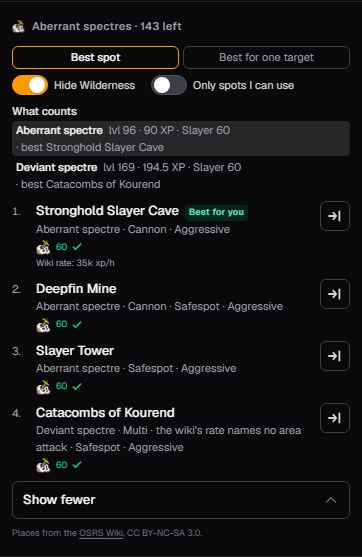
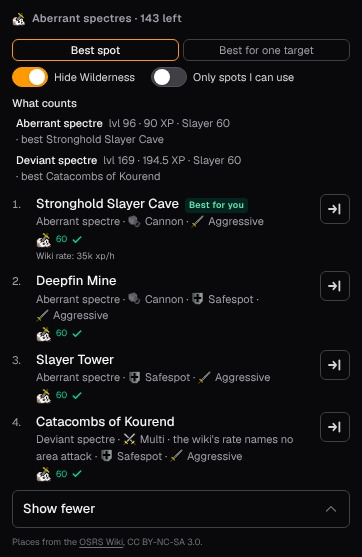
Show the website's Slayer panel as it is now on the Hub page
The website now puts the same pictures before a Slayer place's labels that the sidebar draws,
keeping the words, so the Hub page's picture of that panel showed labels the site no longer
draws that way. It is captured again from the map's own Slayer scene, the same task and the same
crop, and the evidence note records the scene, the crop and that nothing left for production.

Claude-Session: https://claude.ai/code/session_012PeGNqxYJ3rWSeWDbWxWYV

diff --git a/docs/review-evidence/tasks-cards-2026-11-11.md b/docs/review-evidence/tasks-cards-2026-11-11.md
@@ -54,3 +54,17 @@ level it asks for joined the chips' row; the sizes above are theirs.
 736px in both themes, with no horizontal overflow and every internal link resolved. Its HTML came
 from a local conversion of the README's Markdown (Python-Markdown 3.11) rather than GitHub's
 renderer, so the check made no request.
+
+## The website's Slayer panel, 12 November 2026
+
+`website-slayer.jpg` is captured again: the website now puts the same pictures before a place's
+labels, with the words kept (`osrs-stars-map` at `21dc459`, *Put the game's pictures before a
+Slayer place's labels*). It is that repository's `map-companion-slayer` scene from
+`scripts/shoot-map.mjs`, desktop and dark, run from a copy with the posted task changed from
+Abyssal demons to Aberrant spectres so the picture shows the task it always has. The 1440×900
+shot is cropped to the Slayer block, x 57–419 and y 155–712, the 362×557 of the picture it
+replaces.
+
+The page was the map's own, served by `next dev` with its fixture star feed, the local tile
+mirror, fake sign-in and a temporary companion database; the member and group are the scene's
+synthetic ones. No request left for production, and it is not evidence of what is deployed.

diff --git a/README.md b/README.md
@@ -133,7 +133,7 @@ Any place on the map has its fastest ways there, teleports and rides included, d
 pins. **Send to RuneLite** puts the route in your sidebar.
 
 <p>
-  <img src="docs/mockups/website-slayer.jpg" width="270" alt="The website's Slayer panel for 143 Aberrant spectres: ranked places, monster variants, access requirements and controls for the list">
+  <img src="docs/mockups/website-slayer.jpg" width="270" alt="The website's Slayer panel for 143 Aberrant spectres: ranked places with a picture beside each label, monster variants, access requirements and controls for the list">
   <img src="docs/mockups/website-sailing.jpg" width="270" alt="Port Sarim's task board on the website: courier tasks ranked by XP per sailed tile, then bounty tasks ranked for the whole trip and hunt">
 </p>
 
